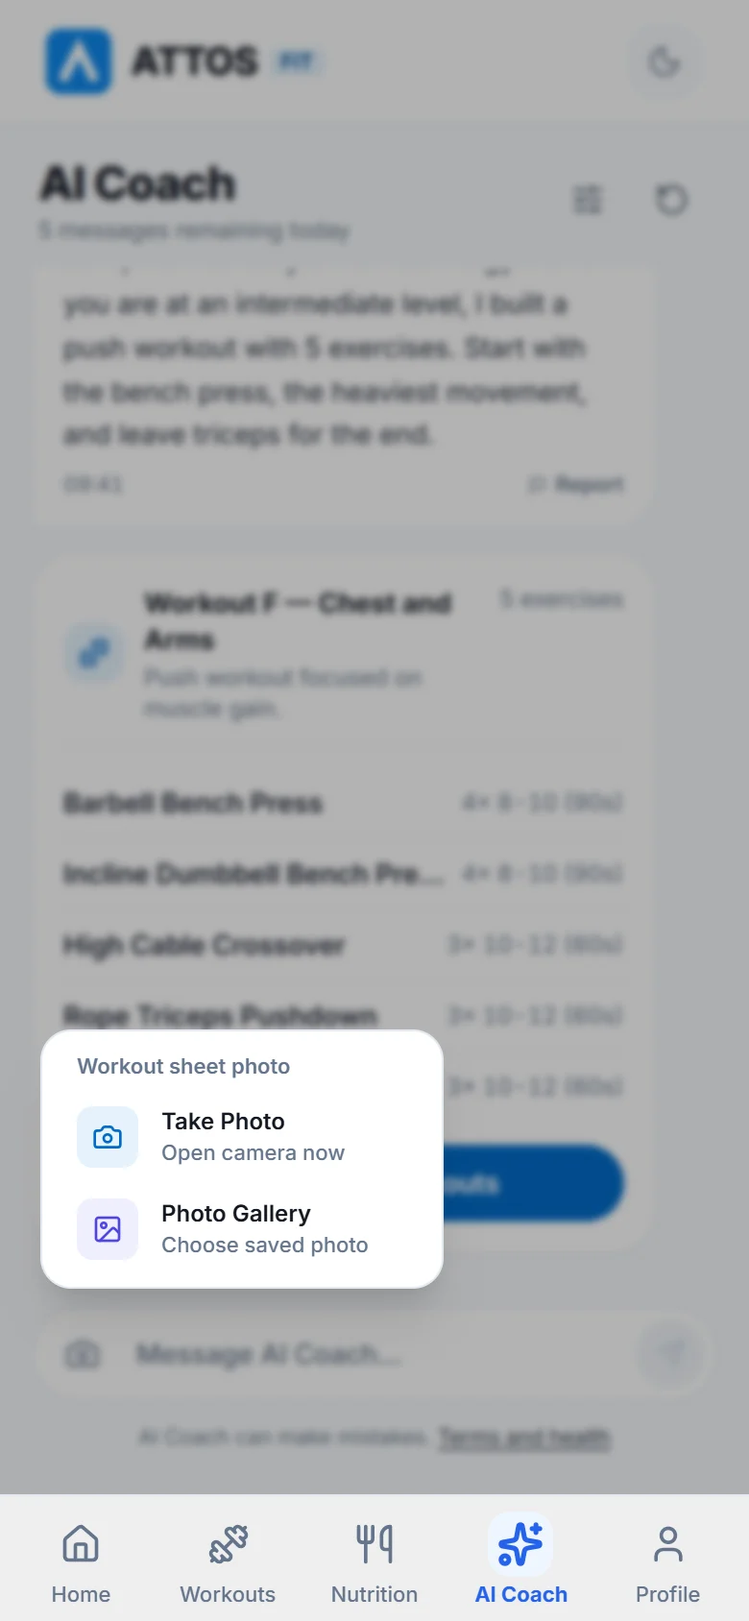
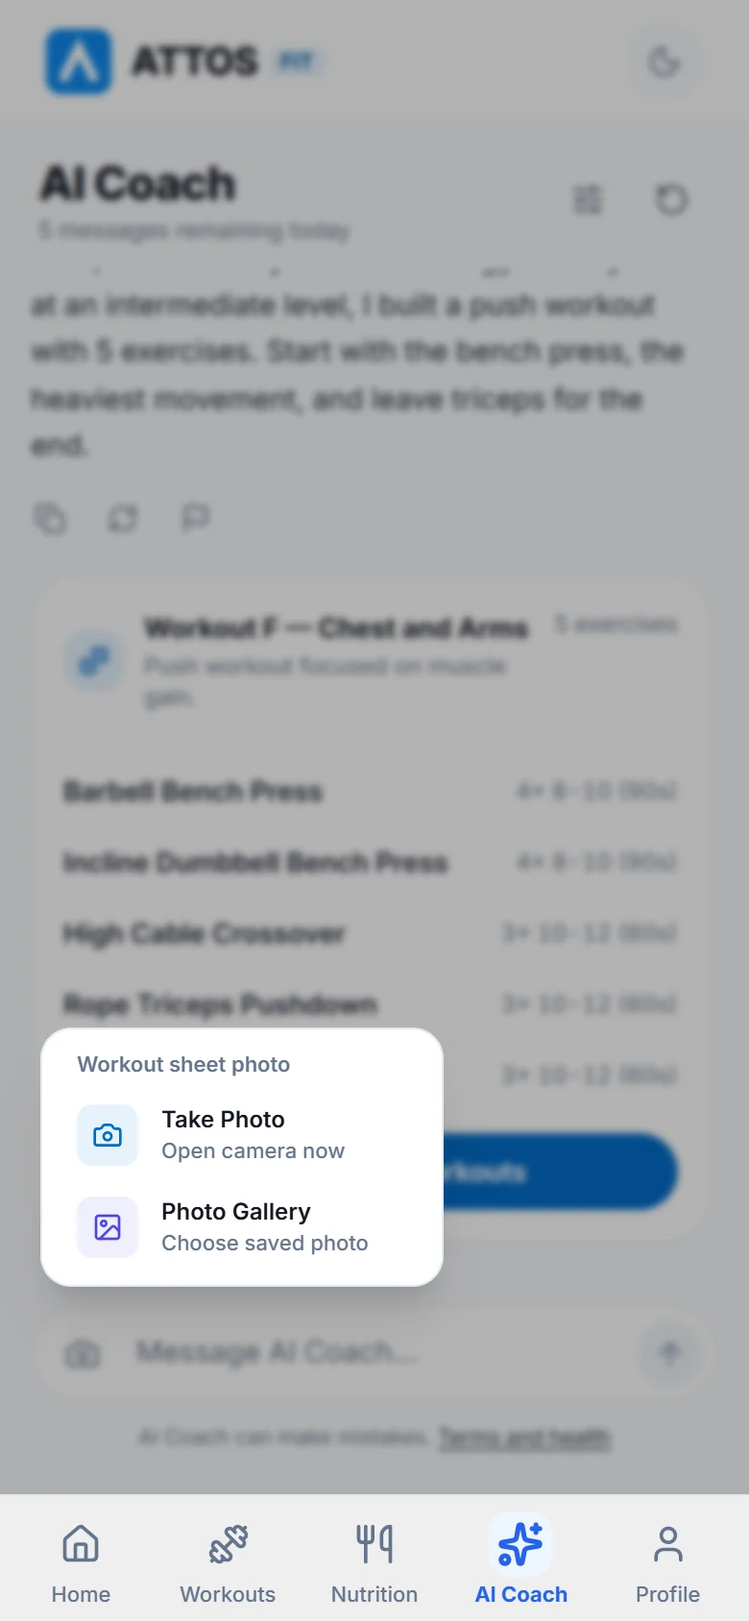
feat: e-mails do dominio, telas novas do Coach IA e Cloudflare na politica de privacidade
- contato@attosfit.com e privacidade@attosfit.com no lugar dos enderecos do Gmail
- capturas do Coach IA refeitas com a tela nova, nos tres idiomas e dois temas
- capitulo do Coach no guia: sugestoes, resposta aos poucos, parar, copiar, gerar de novo
- politica de privacidade cita a Cloudflare, que hospeda o servidor do Coach

diff --git a/es/privacy.html b/es/privacy.html
@@ -61,7 +61,7 @@
       <h2 id="">4. Con quién los compartimos</h2>
       <p>Attos <b>no vende, no alquila y no comparte</b> datos personales con anunciantes, redes de publicidad ni intermediarios de datos.</p>
       <p>Solo se comparten con los proveedores necesarios para que la app funcione:</p>
-      <ul><li><b>Google Firebase (Google):</b> inicio de sesión con la cuenta de Google y base de datos en la nube, usados solo si inicias sesión con Google.</li><li><b>Proveedores de inteligencia artificial (OpenRouter y Google Gemini):</b> cuando usas el Coach IA o el ajuste de dieta con IA, tu mensaje se envía al proveedor junto con el contexto de tu perfil: primer nombre, edad, peso, altura, objetivo, nivel, lugar de entrenamiento, dolores indicados, preferencias de alimentación, suplementos registrados, metas de la dieta, consumo de agua y un resumen de tus entrenamientos recientes. Las fotos de rutinas que adjuntes también se envían para su lectura. No enviamos correo, contraseña ni datos de pago.</li><li><b>Google Play y RevenueCat:</b> procesan la suscripción de Attos PRO e informan a la app si está activa.</li></ul>
+      <ul><li><b>Google Firebase (Google):</b> inicio de sesión con la cuenta de Google y base de datos en la nube, usados solo si inicias sesión con Google.</li><li><b>Proveedores de inteligencia artificial (OpenRouter y Google Gemini):</b> cuando usas el Coach IA o el ajuste de dieta con IA, tu mensaje se envía al proveedor junto con el contexto de tu perfil: primer nombre, edad, peso, altura, objetivo, nivel, lugar de entrenamiento, dolores indicados, preferencias de alimentación, suplementos registrados, metas de la dieta, consumo de agua y un resumen de tus entrenamientos recientes. Las fotos de rutinas que adjuntes también se envían para su lectura. No enviamos correo, contraseña ni datos de pago.</li><li><b>Cloudflare:</b> aloja el servidor del Coach IA, por donde pasan los mensajes antes de llegar al proveedor de IA. Allí se guardan el contador diario de mensajes y las respuestas que reportes.</li><li><b>Google Play y RevenueCat:</b> procesan la suscripción de Attos PRO e informan a la app si está activa.</li></ul>
       <p>Estos proveedores pueden tratar datos en servidores fuera de Brasil, conforme a sus propias políticas de privacidad y a las salvaguardas que la LGPD prevé para la transferencia internacional.</p>
       <h2 id="">5. Dónde están los datos y cómo se protegen</h2>
       <ul><li><b>En el dispositivo, por defecto:</b> tus datos se guardan en el almacenamiento de la aplicación en tu teléfono.</li><li><b>En la nube, si quieres:</b> al iniciar sesión con Google, se sincroniza una copia con Google Firebase.</li><li><b>Cifrado en tránsito:</b> toda comunicación con servidores usa HTTPS/TLS.</li><li><b>Acceso restringido:</b> solo la cuenta de Google autenticada accede a sus propios datos en la nube.</li></ul>
@@ -71,9 +71,9 @@
       <h2 id="">7. Tus derechos (art. 18 de la LGPD)</h2>
       <p>Eres el titular de tus datos y puedes, en cualquier momento:</p>
       <ul><li><b>Confirmar y acceder:</b> saber si tratamos tus datos y consultarlos. Todo lo que la app guarda está visible en las pantallas de Perfil, Historial, Nutrición y Perfil de atleta.</li><li><b>Corregir:</b> cambiar datos incompletos o desactualizados en tu Perfil de atleta y en las propias pantallas de la app.</li><li><b>Pedir una copia (portabilidad):</b> solicitar por correo una copia de los datos asociados a tu cuenta.</li><li><b>Retirar el consentimiento y eliminar:</b> borrar todos los datos, del dispositivo y de la nube, de forma definitiva.</li></ul>
-      <p>Para ejercer cualquier derecho, escribe a <a href="mailto:privacidade.attos@gmail.com">privacidade.attos@gmail.com</a>. También puedes presentar un reclamo ante la Autoridad Nacional de Protección de Datos de Brasil (ANPD) o ante la autoridad de protección de datos de tu país.</p>
+      <p>Para ejercer cualquier derecho, escribe a <a href="mailto:privacidade@attosfit.com">privacidade@attosfit.com</a>. También puedes presentar un reclamo ante la Autoridad Nacional de Protección de Datos de Brasil (ANPD) o ante la autoridad de protección de datos de tu país.</p>
       <h2 id="delete">8. Cómo eliminar tu cuenta y tus datos</h2>
-      <ul><li><b>Desde la aplicación:</b> Perfil → engranaje de arriba → <b>Eliminar cuenta y datos</b> → <b>Eliminar definitivamente</b>. La app borra tus datos del dispositivo y de la nube y desconecta la cuenta de Google.</li><li><b>Por correo:</b> si desinstalaste la app, escribe a <a href="mailto:antonio13050@gmail.com">antonio13050@gmail.com</a> con el asunto “Eliminación de datos — Attos” e indica el correo de la cuenta de Google usada. La solicitud se atiende en un máximo de 5 días hábiles, con confirmación por correo.</li></ul>
+      <ul><li><b>Desde la aplicación:</b> Perfil → engranaje de arriba → <b>Eliminar cuenta y datos</b> → <b>Eliminar definitivamente</b>. La app borra tus datos del dispositivo y de la nube y desconecta la cuenta de Google.</li><li><b>Por correo:</b> si desinstalaste la app, escribe a <a href="mailto:contato@attosfit.com">contato@attosfit.com</a> con el asunto “Eliminación de datos — Attos” e indica el correo de la cuenta de Google usada. La solicitud se atiende en un máximo de 5 días hábiles, con confirmación por correo.</li></ul>
       <p>Eliminar la cuenta no cancela una suscripción activa: la cancelación se hace en Google Play.</p>
       <h2 id="">9. Niños y adolescentes</h2>
       <p>La aplicación no está dirigida a menores de 16 años. Si identificamos el registro de alguien por debajo de esa edad sin el consentimiento comprobado de sus padres o tutores, los datos se borrarán.</p>
@@ -81,8 +81,8 @@
       <p>Podemos actualizar esta política para reflejar nuevas funciones de la app o exigencias legales. La fecha de arriba indica la versión vigente. Los cambios relevantes se avisan en la aplicación.</p>
       <h2>Contacto</h2>
       <div class="contact">
-        <div class="card"><span>Soporte y dudas generales</span><a href="mailto:antonio13050@gmail.com">antonio13050@gmail.com</a></div>
-        <div class="card"><span>Privacidad y encargado de datos (LGPD)</span><a href="mailto:privacidade.attos@gmail.com">privacidade.attos@gmail.com</a></div>
+        <div class="card"><span>Soporte y dudas generales</span><a href="mailto:contato@attosfit.com">contato@attosfit.com</a></div>
+        <div class="card"><span>Privacidad y encargado de datos (LGPD)</span><a href="mailto:privacidade@attosfit.com">privacidade@attosfit.com</a></div>
       </div>
   </div>
 </div>
@@ -99,7 +99,7 @@
       <a href="privacy.html">Privacidad</a>
       <a href="terms.html">Términos de uso</a>
       <a href="legal.html#delete">Eliminar cuenta y datos</a>
-      <a href="mailto:antonio13050@gmail.com">Contacto</a>
+      <a href="mailto:contato@attosfit.com">Contacto</a>
     </nav>
   </div>
 </footer>

diff --git a/privacy.html b/privacy.html
@@ -61,7 +61,7 @@
       <h2 id="">4. Com quem compartilhamos</h2>
       <p>O Attos <b>não vende, não aluga e não compartilha</b> dados pessoais com anunciantes, redes de publicidade ou corretores de dados.</p>
       <p>Há compartilhamento apenas com os fornecedores necessários para o app funcionar:</p>
-      <ul><li><b>Google Firebase (Google):</b> login com a conta Google e banco de dados na nuvem, usados somente se você entrar com o Google.</li><li><b>Provedores de inteligência artificial (OpenRouter e Google Gemini):</b> quando você usa o Coach IA ou o ajuste de dieta com IA, sua mensagem segue para o provedor junto com o contexto da sua ficha: primeiro nome, idade, peso, altura, objetivo, nível, local de treino, dores informadas, preferências alimentares, suplementos cadastrados, metas da dieta, consumo de água e um resumo dos treinos recentes. Fotos de fichas que você anexar também são enviadas para leitura. Não enviamos e-mail, senha nem dados de pagamento.</li><li><b>Google Play e RevenueCat:</b> processam a assinatura do Attos PRO e informam ao app se ela está ativa.</li></ul>
+      <ul><li><b>Google Firebase (Google):</b> login com a conta Google e banco de dados na nuvem, usados somente se você entrar com o Google.</li><li><b>Provedores de inteligência artificial (OpenRouter e Google Gemini):</b> quando você usa o Coach IA ou o ajuste de dieta com IA, sua mensagem segue para o provedor junto com o contexto da sua ficha: primeiro nome, idade, peso, altura, objetivo, nível, local de treino, dores informadas, preferências alimentares, suplementos cadastrados, metas da dieta, consumo de água e um resumo dos treinos recentes. Fotos de fichas que você anexar também são enviadas para leitura. Não enviamos e-mail, senha nem dados de pagamento.</li><li><b>Cloudflare:</b> hospeda o servidor do Coach IA, por onde as mensagens passam antes de chegar ao provedor de IA. Nele ficam o contador diário de mensagens e as respostas que você reportar.</li><li><b>Google Play e RevenueCat:</b> processam a assinatura do Attos PRO e informam ao app se ela está ativa.</li></ul>
       <p>Esses fornecedores podem tratar dados em servidores fora do Brasil, seguindo as próprias políticas de privacidade e as salvaguardas previstas na LGPD para transferência internacional.</p>
       <h2 id="">5. Onde os dados ficam e como são protegidos</h2>
       <ul><li><b>No aparelho, por padrão:</b> seus dados ficam salvos no armazenamento do aplicativo no seu celular.</li><li><b>Na nuvem, se você quiser:</b> ao entrar com o Google, uma cópia é sincronizada com o Google Firebase.</li><li><b>Criptografia em trânsito:</b> toda comunicação com servidores usa HTTPS/TLS.</li><li><b>Acesso restrito:</b> só a conta Google autenticada acessa os próprios dados na nuvem.</li></ul>
@@ -71,9 +71,9 @@
       <h2 id="">7. Seus direitos (art. 18 da LGPD)</h2>
       <p>Você é o titular dos seus dados e pode, a qualquer momento:</p>
       <ul><li><b>Confirmar e acessar:</b> saber se tratamos seus dados e consultá-los. Tudo o que o app guarda está visível nas telas de Perfil, Histórico, Nutrição e Ficha do atleta.</li><li><b>Corrigir:</b> alterar dados incompletos ou desatualizados na Ficha do atleta e nas próprias telas do app.</li><li><b>Pedir uma cópia (portabilidade):</b> solicitar por e-mail uma cópia dos dados associados à sua conta.</li><li><b>Retirar o consentimento e excluir:</b> apagar todos os dados, do aparelho e da nuvem, de forma definitiva.</li></ul>
-      <p>Para exercer qualquer direito, escreva para <a href="mailto:privacidade.attos@gmail.com">privacidade.attos@gmail.com</a>. Você também pode reclamar à Autoridade Nacional de Proteção de Dados (ANPD).</p>
+      <p>Para exercer qualquer direito, escreva para <a href="mailto:privacidade@attosfit.com">privacidade@attosfit.com</a>. Você também pode reclamar à Autoridade Nacional de Proteção de Dados (ANPD).</p>
       <h2 id="delete">8. Como excluir sua conta e seus dados</h2>
-      <ul><li><b>Pelo aplicativo:</b> Perfil → engrenagem no topo → <b>Excluir conta e dados</b> → <b>Excluir definitivamente</b>. O app apaga seus dados do aparelho e da nuvem e desconecta a conta Google.</li><li><b>Por e-mail:</b> se você desinstalou o app, escreva para <a href="mailto:antonio13050@gmail.com">antonio13050@gmail.com</a> com o assunto “Exclusão de dados — Attos”, informando o e-mail da conta Google usada. O pedido é atendido em até 5 dias úteis, com confirmação por e-mail.</li></ul>
+      <ul><li><b>Pelo aplicativo:</b> Perfil → engrenagem no topo → <b>Excluir conta e dados</b> → <b>Excluir definitivamente</b>. O app apaga seus dados do aparelho e da nuvem e desconecta a conta Google.</li><li><b>Por e-mail:</b> se você desinstalou o app, escreva para <a href="mailto:contato@attosfit.com">contato@attosfit.com</a> com o assunto “Exclusão de dados — Attos”, informando o e-mail da conta Google usada. O pedido é atendido em até 5 dias úteis, com confirmação por e-mail.</li></ul>
       <p>Excluir a conta não cancela uma assinatura ativa: o cancelamento é feito no Google Play.</p>
       <h2 id="">9. Crianças e adolescentes</h2>
       <p>O aplicativo não é direcionado a menores de 16 anos. Se identificarmos o cadastro de alguém abaixo dessa idade sem consentimento comprovado dos pais ou responsáveis, os dados serão apagados.</p>
@@ -81,8 +81,8 @@
       <p>Podemos atualizar esta política para refletir novas funções do app ou exigências legais. A data no topo indica a versão em vigor. Mudanças relevantes são avisadas no aplicativo.</p>
       <h2>Contato</h2>
       <div class="contact">
-        <div class="card"><span>Suporte e dúvidas gerais</span><a href="mailto:antonio13050@gmail.com">antonio13050@gmail.com</a></div>
-        <div class="card"><span>Privacidade e encarregado (LGPD)</span><a href="mailto:privacidade.attos@gmail.com">privacidade.attos@gmail.com</a></div>
+        <div class="card"><span>Suporte e dúvidas gerais</span><a href="mailto:contato@attosfit.com">contato@attosfit.com</a></div>
+        <div class="card"><span>Privacidade e encarregado (LGPD)</span><a href="mailto:privacidade@attosfit.com">privacidade@attosfit.com</a></div>
       </div>
   </div>
 </div>
@@ -99,7 +99,7 @@
       <a href="privacy.html">Privacidade</a>
       <a href="terms.html">Termos de uso</a>
       <a href="legal.html#delete">Excluir conta e dados</a>
-      <a href="mailto:antonio13050@gmail.com">Contato</a>
+      <a href="mailto:contato@attosfit.com">Contato</a>
     </nav>
   </div>
 </footer>

diff --git a/en/privacy.html b/en/privacy.html
@@ -61,7 +61,7 @@
       <h2 id="">4. Who we share it with</h2>
       <p>Attos <b>does not sell, rent or share</b> personal data with advertisers, ad networks or data brokers.</p>
       <p>Data is shared only with the providers the app needs in order to work:</p>
-      <ul><li><b>Google Firebase (Google):</b> sign-in with your Google account and the cloud database, used only if you sign in with Google.</li><li><b>Artificial intelligence providers (OpenRouter and Google Gemini):</b> when you use AI Coach or the AI diet adjustment, your message is sent to the provider together with the context of your profile: first name, age, weight, height, goal, level, training place, pain areas you reported, dietary preferences, supplements you added, diet targets, water intake and a summary of your recent workouts. Photos of workout sheets you attach are also sent to be read. We do not send your email, password or payment data.</li><li><b>Google Play and RevenueCat:</b> they process the Attos PRO subscription and tell the app whether it is active.</li></ul>
+      <ul><li><b>Google Firebase (Google):</b> sign-in with your Google account and the cloud database, used only if you sign in with Google.</li><li><b>Artificial intelligence providers (OpenRouter and Google Gemini):</b> when you use AI Coach or the AI diet adjustment, your message is sent to the provider together with the context of your profile: first name, age, weight, height, goal, level, training place, pain areas you reported, dietary preferences, supplements you added, diet targets, water intake and a summary of your recent workouts. Photos of workout sheets you attach are also sent to be read. We do not send your email, password or payment data.</li><li><b>Cloudflare:</b> hosts the AI Coach server, which messages pass through before reaching the AI provider. It stores the daily message counter and the answers you report.</li><li><b>Google Play and RevenueCat:</b> they process the Attos PRO subscription and tell the app whether it is active.</li></ul>
       <p>These providers may process data on servers outside Brazil, under their own privacy policies and the safeguards the LGPD sets for international transfers.</p>
       <h2 id="">5. Where the data is kept and how it is protected</h2>
       <ul><li><b>On the device, by default:</b> your data is saved in the app’s storage on your phone.</li><li><b>In the cloud, if you choose:</b> when you sign in with Google, a copy is synced with Google Firebase.</li><li><b>Encryption in transit:</b> all communication with servers uses HTTPS/TLS.</li><li><b>Restricted access:</b> only the authenticated Google account can access its own data in the cloud.</li></ul>
@@ -71,9 +71,9 @@
       <h2 id="">7. Your rights (art. 18 of the LGPD)</h2>
       <p>You are the owner of your data and may, at any time:</p>
       <ul><li><b>Confirm and access:</b> know whether we process your data and look it up. Everything the app stores is visible on the Profile, History, Nutrition and Athlete profile screens.</li><li><b>Correct:</b> change incomplete or outdated data in your Athlete profile and on the app’s own screens.</li><li><b>Request a copy (portability):</b> ask by email for a copy of the data associated with your account.</li><li><b>Withdraw consent and delete:</b> permanently erase all data, from the device and from the cloud.</li></ul>
-      <p>To exercise any right, write to <a href="mailto:privacidade.attos@gmail.com">privacidade.attos@gmail.com</a>. You may also file a complaint with Brazil’s National Data Protection Authority (ANPD) or with the data protection authority in your country.</p>
+      <p>To exercise any right, write to <a href="mailto:privacidade@attosfit.com">privacidade@attosfit.com</a>. You may also file a complaint with Brazil’s National Data Protection Authority (ANPD) or with the data protection authority in your country.</p>
       <h2 id="delete">8. How to delete your account and your data</h2>
-      <ul><li><b>In the app:</b> Profile → the gear at the top → <b>Delete account and data</b> → <b>Delete permanently</b>. The app erases your data from the device and the cloud and disconnects your Google account.</li><li><b>By email:</b> if you uninstalled the app, write to <a href="mailto:antonio13050@gmail.com">antonio13050@gmail.com</a> with the subject “Data deletion — Attos” and tell us the email of the Google account you used. The request is handled within 5 business days, with confirmation by email.</li></ul>
+      <ul><li><b>In the app:</b> Profile → the gear at the top → <b>Delete account and data</b> → <b>Delete permanently</b>. The app erases your data from the device and the cloud and disconnects your Google account.</li><li><b>By email:</b> if you uninstalled the app, write to <a href="mailto:contato@attosfit.com">contato@attosfit.com</a> with the subject “Data deletion — Attos” and tell us the email of the Google account you used. The request is handled within 5 business days, with confirmation by email.</li></ul>
       <p>Deleting the account does not cancel an active subscription: cancellation is done in Google Play.</p>
       <h2 id="">9. Children and teenagers</h2>
       <p>The app is not directed at anyone under 16. If we identify that someone below that age signed up without proven consent from a parent or guardian, the data will be erased.</p>
@@ -81,8 +81,8 @@
       <p>We may update this policy to reflect new app features or legal requirements. The date at the top shows the version in force. Relevant changes are announced in the app.</p>
       <h2>Contact</h2>
       <div class="contact">
-        <div class="card"><span>Support and general questions</span><a href="mailto:antonio13050@gmail.com">antonio13050@gmail.com</a></div>
-        <div class="card"><span>Privacy and data protection officer (LGPD)</span><a href="mailto:privacidade.attos@gmail.com">privacidade.attos@gmail.com</a></div>
+        <div class="card"><span>Support and general questions</span><a href="mailto:contato@attosfit.com">contato@attosfit.com</a></div>
+        <div class="card"><span>Privacy and data protection officer (LGPD)</span><a href="mailto:privacidade@attosfit.com">privacidade@attosfit.com</a></div>
       </div>
   </div>
 </div>
@@ -99,7 +99,7 @@
       <a href="privacy.html">Privacy</a>
       <a href="terms.html">Terms of use</a>
       <a href="legal.html#delete">Delete account and data</a>
-      <a href="mailto:antonio13050@gmail.com">Contact</a>
+      <a href="mailto:contato@attosfit.com">Contact</a>
     </nav>
   </div>
 </footer>

diff --git a/es/legal.html b/es/legal.html
@@ -50,13 +50,13 @@
   <div class="prose">
       <h2 id="delete">Cómo eliminar tu cuenta y tus datos</h2>
       <p>Puedes pedir la eliminación completa de tu cuenta y de todos tus datos en cualquier momento, de dos maneras.</p>
-      <ul><li><b>Desde la aplicación:</b> abre Attos, toca <b>Perfil</b>, luego el engranaje arriba en la pantalla, baja hasta el final y toca <b>Eliminar cuenta y datos</b>. Confirma en <b>Eliminar definitivamente</b>. La app borra tus entrenamientos, historial, medidas y la copia en la nube, y desconecta tu cuenta de Google.</li><li><b>Por correo:</b> si ya desinstalaste la app, escribe a <a href="mailto:antonio13050@gmail.com">antonio13050@gmail.com</a> con el asunto “Eliminación de datos — Attos” e indica el correo de la cuenta de Google que usaste en la app. Respondemos en un máximo de 5 días hábiles y confirmamos por correo.</li></ul>
+      <ul><li><b>Desde la aplicación:</b> abre Attos, toca <b>Perfil</b>, luego el engranaje arriba en la pantalla, baja hasta el final y toca <b>Eliminar cuenta y datos</b>. Confirma en <b>Eliminar definitivamente</b>. La app borra tus entrenamientos, historial, medidas y la copia en la nube, y desconecta tu cuenta de Google.</li><li><b>Por correo:</b> si ya desinstalaste la app, escribe a <a href="mailto:contato@attosfit.com">contato@attosfit.com</a> con el asunto “Eliminación de datos — Attos” e indica el correo de la cuenta de Google que usaste en la app. Respondemos en un máximo de 5 días hábiles y confirmamos por correo.</li></ul>
       <p>La eliminación es definitiva: no es posible recuperar los datos después. Eliminar la cuenta no cancela una suscripción activa de Attos PRO; la cancelación se hace en Google Play.</p>
       <p>Si usas la app sin cuenta, tus datos están guardados solo en el dispositivo. En ese caso, “Eliminar cuenta y datos” borra todo del dispositivo, y desinstalar la app tiene el mismo efecto.</p>
       <h2>Contacto</h2>
       <div class="contact">
-        <div class="card"><span>Soporte y dudas generales</span><a href="mailto:antonio13050@gmail.com">antonio13050@gmail.com</a></div>
-        <div class="card"><span>Privacidad y encargado de datos (LGPD)</span><a href="mailto:privacidade.attos@gmail.com">privacidade.attos@gmail.com</a></div>
+        <div class="card"><span>Soporte y dudas generales</span><a href="mailto:contato@attosfit.com">contato@attosfit.com</a></div>
+        <div class="card"><span>Privacidad y encargado de datos (LGPD)</span><a href="mailto:privacidade@attosfit.com">privacidade@attosfit.com</a></div>
       </div>
   </div>
 </div>
@@ -73,7 +73,7 @@
       <a href="privacy.html">Privacidad</a>
       <a href="terms.html">Términos de uso</a>
       <a href="legal.html#delete">Eliminar cuenta y datos</a>
-      <a href="mailto:antonio13050@gmail.com">Contacto</a>
+      <a href="mailto:contato@attosfit.com">Contacto</a>
     </nav>
   </div>
 </footer>

diff --git a/en/legal.html b/en/legal.html
@@ -50,13 +50,13 @@
   <div class="prose">
       <h2 id="delete">How to delete your account and your data</h2>
       <p>You can request the complete deletion of your account and all your data at any time, in two ways.</p>
-      <ul><li><b>In the app:</b> open Attos, tap <b>Profile</b>, then the gear at the top of the screen, scroll to the bottom and tap <b>Delete account and data</b>. Confirm with <b>Delete permanently</b>. The app erases your workouts, history, measurements and the cloud backup, and disconnects your Google account.</li><li><b>By email:</b> if you already uninstalled the app, write to <a href="mailto:antonio13050@gmail.com">antonio13050@gmail.com</a> with the subject “Data deletion — Attos” and tell us the email of the Google account you used in the app. We handle it within 5 business days and confirm by email.</li></ul>
+      <ul><li><b>In the app:</b> open Attos, tap <b>Profile</b>, then the gear at the top of the screen, scroll to the bottom and tap <b>Delete account and data</b>. Confirm with <b>Delete permanently</b>. The app erases your workouts, history, measurements and the cloud backup, and disconnects your Google account.</li><li><b>By email:</b> if you already uninstalled the app, write to <a href="mailto:contato@attosfit.com">contato@attosfit.com</a> with the subject “Data deletion — Attos” and tell us the email of the Google account you used in the app. We handle it within 5 business days and confirm by email.</li></ul>
       <p>Deletion is permanent: the data cannot be recovered afterwards. Deleting the account does not cancel an active Attos PRO subscription; cancellation is done in Google Play.</p>
       <p>If you use the app without an account, your data is stored on the device only. In that case, “Delete account and data” erases everything from the device, and uninstalling the app has the same effect.</p>
       <h2>Contact</h2>
       <div class="contact">
-        <div class="card"><span>Support and general questions</span><a href="mailto:antonio13050@gmail.com">antonio13050@gmail.com</a></div>
-        <div class="card"><span>Privacy and data protection officer (LGPD)</span><a href="mailto:privacidade.attos@gmail.com">privacidade.attos@gmail.com</a></div>
+        <div class="card"><span>Support and general questions</span><a href="mailto:contato@attosfit.com">contato@attosfit.com</a></div>
+        <div class="card"><span>Privacy and data protection officer (LGPD)</span><a href="mailto:privacidade@attosfit.com">privacidade@attosfit.com</a></div>
       </div>
   </div>
 </div>
@@ -73,7 +73,7 @@
       <a href="privacy.html">Privacy</a>
       <a href="terms.html">Terms of use</a>
       <a href="legal.html#delete">Delete account and data</a>
-      <a href="mailto:antonio13050@gmail.com">Contact</a>
+      <a href="mailto:contato@attosfit.com">Contact</a>
     </nav>
   </div>
 </footer>

diff --git a/legal.html b/legal.html
@@ -50,13 +50,13 @@
   <div class="prose">
       <h2 id="delete">Como excluir sua conta e seus dados</h2>
       <p>Você pode pedir a exclusão completa da sua conta e de todos os dados a qualquer momento, de duas formas.</p>
-      <ul><li><b>Pelo aplicativo:</b> abra o Attos, toque em <b>Perfil</b>, depois na engrenagem no topo da tela, role até o fim e toque em <b>Excluir conta e dados</b>. Confirme em <b>Excluir definitivamente</b>. O app apaga seus treinos, histórico, medidas e a cópia na nuvem, e desconecta sua conta Google.</li><li><b>Por e-mail:</b> se você já desinstalou o app, escreva para <a href="mailto:antonio13050@gmail.com">antonio13050@gmail.com</a> com o assunto “Exclusão de dados — Attos”, informando o e-mail da conta Google usada no app. Atendemos em até 5 dias úteis e confirmamos por e-mail.</li></ul>
+      <ul><li><b>Pelo aplicativo:</b> abra o Attos, toque em <b>Perfil</b>, depois na engrenagem no topo da tela, role até o fim e toque em <b>Excluir conta e dados</b>. Confirme em <b>Excluir definitivamente</b>. O app apaga seus treinos, histórico, medidas e a cópia na nuvem, e desconecta sua conta Google.</li><li><b>Por e-mail:</b> se você já desinstalou o app, escreva para <a href="mailto:contato@attosfit.com">contato@attosfit.com</a> com o assunto “Exclusão de dados — Attos”, informando o e-mail da conta Google usada no app. Atendemos em até 5 dias úteis e confirmamos por e-mail.</li></ul>
       <p>A exclusão é definitiva: não é possível recuperar os dados depois. Excluir a conta não cancela uma assinatura ativa do Attos PRO; o cancelamento é feito no Google Play.</p>
       <p>Quem usa o app sem conta tem os dados guardados só no aparelho. Nesse caso, “Excluir conta e dados” apaga tudo do aparelho, e desinstalar o app tem o mesmo efeito.</p>
       <h2>Contato</h2>
       <div class="contact">
-        <div class="card"><span>Suporte e dúvidas gerais</span><a href="mailto:antonio13050@gmail.com">antonio13050@gmail.com</a></div>
-        <div class="card"><span>Privacidade e encarregado (LGPD)</span><a href="mailto:privacidade.attos@gmail.com">privacidade.attos@gmail.com</a></div>
+        <div class="card"><span>Suporte e dúvidas gerais</span><a href="mailto:contato@attosfit.com">contato@attosfit.com</a></div>
+        <div class="card"><span>Privacidade e encarregado (LGPD)</span><a href="mailto:privacidade@attosfit.com">privacidade@attosfit.com</a></div>
       </div>
   </div>
 </div>
@@ -73,7 +73,7 @@
       <a href="privacy.html">Privacidade</a>
       <a href="terms.html">Termos de uso</a>
       <a href="legal.html#delete">Excluir conta e dados</a>
-      <a href="mailto:antonio13050@gmail.com">Contato</a>
+      <a href="mailto:contato@attosfit.com">Contato</a>
     </nav>
   </div>
 </footer>

diff --git a/es/guide.html b/es/guide.html
@@ -237,8 +237,8 @@
           <span class="step-n">5.1</span>
           <h3>Resuelve dudas con el Coach</h3>
           <p>El Coach IA responde sobre entrenamiento, alimentación y ejecución de los ejercicios tomando en cuenta tu perfil.</p>
-          <ol class="how"><li>En la barra inferior, toca <b>Coach IA</b>.</li><li>Toca una de las sugerencias sobre el campo de texto o escribe tu pregunta.</li><li>Toca el botón de enviar.</li><li>El contador bajo el título muestra cuántos mensajes te quedan hoy en el plan gratis: son 5 al día.</li></ol>
-          <p class="tip"><strong>Consejo:</strong> El Coach IA puede equivocarse. Usa las respuestas como apoyo y toca Reportar si una respuesta parece incorrecta o inapropiada.</p>
+          <ol class="how"><li>En la barra inferior, toca <b>Coach IA</b>.</li><li>Toca una de las sugerencias de la pantalla inicial o escribe tu pregunta en el campo de abajo.</li><li>Toca la flecha para enviar. La respuesta aparece poco a poco; mientras tanto, el botón se convierte en un cuadrado que detiene la respuesta.</li><li>Debajo de cada respuesta hay tres acciones: copiar el texto, generar de nuevo y reportar.</li><li>El contador bajo el título muestra cuántos mensajes te quedan hoy en el plan gratis: son 5 al día.</li></ol>
+          <p class="tip"><strong>Consejo:</strong> El Coach IA puede equivocarse. Usa las respuestas como apoyo y toca la bandera para reportar una respuesta incorrecta o inapropiada. Una respuesta que detienes a la mitad no gasta mensaje.</p>
         </div>
       </article>
       <article class="step two" id="coach-plan">
@@ -460,7 +460,7 @@
       <a href="privacy.html">Privacidad</a>
       <a href="terms.html">Términos de uso</a>
       <a href="legal.html#delete">Eliminar cuenta y datos</a>
-      <a href="mailto:antonio13050@gmail.com">Contacto</a>
+      <a href="mailto:contato@attosfit.com">Contacto</a>
     </nav>
   </div>
 </footer>

diff --git a/guide.html b/guide.html
@@ -237,8 +237,8 @@
           <span class="step-n">5.1</span>
           <h3>Tire dúvidas com o Coach</h3>
           <p>O Coach IA responde sobre treino, alimentação e execução dos exercícios levando em conta a sua ficha.</p>
-          <ol class="how"><li>Na barra inferior, toque em <b>IA Coach</b>.</li><li>Toque numa das sugestões acima do campo de texto ou escreva sua pergunta.</li><li>Toque no botão de enviar.</li><li>O contador abaixo do título mostra quantas mensagens restam hoje no plano grátis: são 5 por dia.</li></ol>
-          <p class="tip"><strong>Dica:</strong> O Coach IA pode errar. Use as respostas como apoio e toque em Reportar se uma resposta parecer errada ou inadequada.</p>
+          <ol class="how"><li>Na barra inferior, toque em <b>IA Coach</b>.</li><li>Toque numa das sugestões da tela inicial ou escreva sua pergunta no campo de baixo.</li><li>Toque na seta para enviar. A resposta aparece aos poucos; enquanto isso, o botão vira um quadrado que para a resposta.</li><li>Abaixo de cada resposta há três ações: copiar o texto, gerar de novo e reportar.</li><li>O contador abaixo do título mostra quantas mensagens restam hoje no plano grátis: são 5 por dia.</li></ol>
+          <p class="tip"><strong>Dica:</strong> O Coach IA pode errar. Use as respostas como apoio e toque na bandeira para reportar uma resposta errada ou inadequada. Uma resposta que você parou no meio não gasta mensagem.</p>
         </div>
       </article>
       <article class="step two" id="coach-plan">
@@ -460,7 +460,7 @@
       <a href="privacy.html">Privacidade</a>
       <a href="terms.html">Termos de uso</a>
       <a href="legal.html#delete">Excluir conta e dados</a>
-      <a href="mailto:antonio13050@gmail.com">Contato</a>
+      <a href="mailto:contato@attosfit.com">Contato</a>
     </nav>
   </div>
 </footer>

diff --git a/en/guide.html b/en/guide.html
@@ -237,8 +237,8 @@
           <span class="step-n">5.1</span>
           <h3>Ask the Coach</h3>
           <p>AI Coach answers questions about training, nutrition and exercise form with your profile in mind.</p>
-          <ol class="how"><li>On the bottom bar, tap <b>AI Coach</b>.</li><li>Tap one of the suggestions above the text field, or type your question.</li><li>Tap the send button.</li><li>The counter under the title shows how many messages you have left today on the free plan: 5 a day.</li></ol>
-          <p class="tip"><strong>Tip:</strong> AI Coach can make mistakes. Use its answers as support and tap Report if an answer looks wrong or inappropriate.</p>
+          <ol class="how"><li>On the bottom bar, tap <b>AI Coach</b>.</li><li>Tap one of the suggestions on the start screen, or type your question in the field at the bottom.</li><li>Tap the arrow to send. The answer appears as it is written; meanwhile the button turns into a square that stops the answer.</li><li>Under each answer there are three actions: copy the text, regenerate and report.</li><li>The counter under the title shows how many messages you have left today on the free plan: 5 a day.</li></ol>
+          <p class="tip"><strong>Tip:</strong> AI Coach can make mistakes. Use its answers as support and tap the flag to report an answer that looks wrong or inappropriate. An answer you stop midway does not use up a message.</p>
         </div>
       </article>
       <article class="step two" id="coach-plan">
@@ -460,7 +460,7 @@
       <a href="privacy.html">Privacy</a>
       <a href="terms.html">Terms of use</a>
       <a href="legal.html#delete">Delete account and data</a>
-      <a href="mailto:antonio13050@gmail.com">Contact</a>
+      <a href="mailto:contato@attosfit.com">Contact</a>
     </nav>
   </div>
 </footer>

diff --git a/en/terms.html b/en/terms.html
@@ -73,8 +73,8 @@
       <p>These terms are governed by the laws of Brazil, in particular the Consumer Protection Code (Law No. 8,078/1990) and the Brazilian Civil Rights Framework for the Internet (Law No. 12,965/2014).</p>
       <h2>Contact</h2>
       <div class="contact">
-        <div class="card"><span>Support and general questions</span><a href="mailto:antonio13050@gmail.com">antonio13050@gmail.com</a></div>
-        <div class="card"><span>Privacy and data protection officer (LGPD)</span><a href="mailto:privacidade.attos@gmail.com">privacidade.attos@gmail.com</a></div>
+        <div class="card"><span>Support and general questions</span><a href="mailto:contato@attosfit.com">contato@attosfit.com</a></div>
+        <div class="card"><span>Privacy and data protection officer (LGPD)</span><a href="mailto:privacidade@attosfit.com">privacidade@attosfit.com</a></div>
       </div>
   </div>
 </div>
@@ -91,7 +91,7 @@
       <a href="privacy.html">Privacy</a>
       <a href="terms.html">Terms of use</a>
       <a href="legal.html#delete">Delete account and data</a>
-      <a href="mailto:antonio13050@gmail.com">Contact</a>
+      <a href="mailto:contato@attosfit.com">Contact</a>
     </nav>
   </div>
 </footer>

diff --git a/es/terms.html b/es/terms.html
@@ -73,8 +73,8 @@
       <p>Estos términos se rigen por las leyes de Brasil, en especial el Código de Defensa del Consumidor (Ley n.º 8.078/1990) y el Marco Civil de Internet (Ley n.º 12.965/2014).</p>
       <h2>Contacto</h2>
       <div class="contact">
-        <div class="card"><span>Soporte y dudas generales</span><a href="mailto:antonio13050@gmail.com">antonio13050@gmail.com</a></div>
-        <div class="card"><span>Privacidad y encargado de datos (LGPD)</span><a href="mailto:privacidade.attos@gmail.com">privacidade.attos@gmail.com</a></div>
+        <div class="card"><span>Soporte y dudas generales</span><a href="mailto:contato@attosfit.com">contato@attosfit.com</a></div>
+        <div class="card"><span>Privacidad y encargado de datos (LGPD)</span><a href="mailto:privacidade@attosfit.com">privacidade@attosfit.com</a></div>
       </div>
   </div>
 </div>
@@ -91,7 +91,7 @@
       <a href="privacy.html">Privacidad</a>
       <a href="terms.html">Términos de uso</a>
       <a href="legal.html#delete">Eliminar cuenta y datos</a>
-      <a href="mailto:antonio13050@gmail.com">Contacto</a>
+      <a href="mailto:contato@attosfit.com">Contacto</a>
     </nav>
   </div>
 </footer>

diff --git a/terms.html b/terms.html
@@ -73,8 +73,8 @@
       <p>Estes termos são regidos pelas leis do Brasil, em especial o Código de Defesa do Consumidor (Lei nº 8.078/1990) e o Marco Civil da Internet (Lei nº 12.965/2014).</p>
       <h2>Contato</h2>
       <div class="contact">
-        <div class="card"><span>Suporte e dúvidas gerais</span><a href="mailto:antonio13050@gmail.com">antonio13050@gmail.com</a></div>
-        <div class="card"><span>Privacidade e encarregado (LGPD)</span><a href="mailto:privacidade.attos@gmail.com">privacidade.attos@gmail.com</a></div>
+        <div class="card"><span>Suporte e dúvidas gerais</span><a href="mailto:contato@attosfit.com">contato@attosfit.com</a></div>
+        <div class="card"><span>Privacidade e encarregado (LGPD)</span><a href="mailto:privacidade@attosfit.com">privacidade@attosfit.com</a></div>
       </div>
   </div>
 </div>
@@ -91,7 +91,7 @@
       <a href="privacy.html">Privacidade</a>
       <a href="terms.html">Termos de uso</a>
       <a href="legal.html#delete">Excluir conta e dados</a>
-      <a href="mailto:antonio13050@gmail.com">Contato</a>
+      <a href="mailto:contato@attosfit.com">Contato</a>
     </nav>
   </div>
 </footer>
